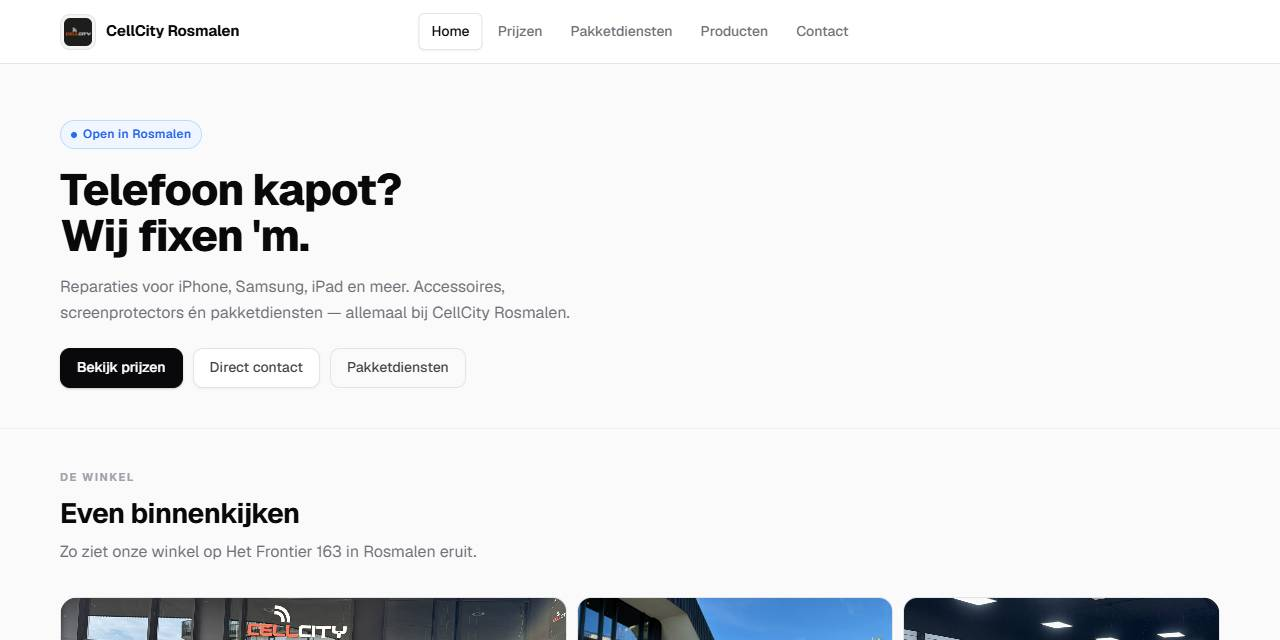
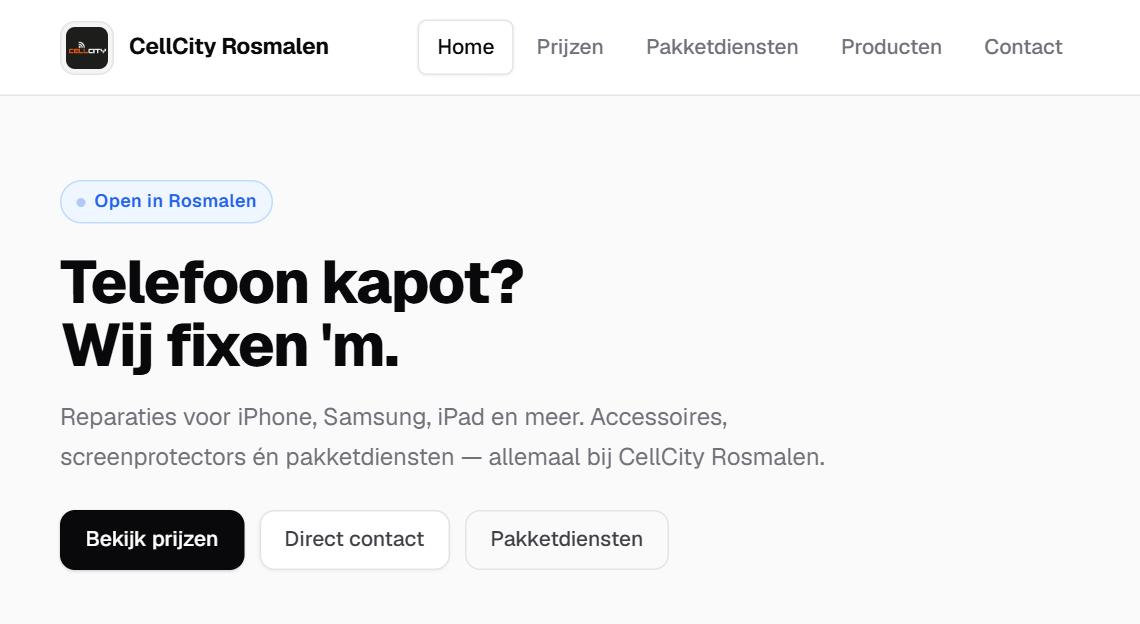
Romulus Shop en Lookxsmaxen App verwijderd
- GymApp: label "Eigen project" (zelf gebouwd), geen samenwerking meer
- WorldSeeker als kaart; Pong, Shooter, Burnout Prefire App en Sudoku App
  in een compacte lijst "Overige schoolprojecten" zonder lege beeldvakken
- Nieuwe CellCity-screenshot: alleen navigatie en hero
- .claude/ en .idea/ in .gitignore en uit de repo gehaald

diff --git a/projects.html b/projects.html
@@ -5,7 +5,7 @@
 <meta name="viewport" content="width=device-width, initial-scale=1">
 <title>Projecten | Benjamin van Hemert</title>
 <link rel="icon" href="data:,">
-<meta name="description" content="Projecten van Benjamin van Hemert uit Rosmalen: een klantwebsite voor CellCity Rosmalen, conceptwebsites, schoolprojecten en een samenwerking. Bij elk project staat wat het is.">
+<meta name="description" content="Projecten van Benjamin van Hemert uit Rosmalen: een klantwebsite voor CellCity Rosmalen, conceptwebsites, een eigen app en schoolprojecten. Bij elk project staat wat het is.">
 <link rel="alternate" hreflang="nl" href="https://benjamin2eaccount.github.io/Portfolio-123.bvh/projects.html">
 <link rel="alternate" hreflang="en" href="https://benjamin2eaccount.github.io/Portfolio-123.bvh/en/projects.html">
 <link rel="preconnect" href="https://fonts.googleapis.com">
@@ -32,7 +32,7 @@
 
 <div class="container page-head">
   <h1>Projecten</h1>
-  <p>Alles wat ik heb gemaakt. Bij elk project staat wat het is: een klantproject, een concept dat ik zelf heb gemaakt, een schoolproject of een samenwerking.</p>
+  <p>Alles wat ik heb gemaakt. Bij elk project staat wat het is: een klantproject, een concept, een eigen project of een schoolproject.</p>
 </div>
 
 <section class="section">
@@ -41,7 +41,7 @@
     <div class="group">
       <h2>Klantproject</h2>
       <div class="featured">
-        <img src="Photos/cellcity.jpg" alt="Screenshot van de homepage van CellCity Rosmalen" width="1280" height="640" loading="lazy">
+        <img src="Photos/cellcity.jpg" alt="Screenshot van de homepage van CellCity Rosmalen" width="1140" height="624" loading="lazy">
         <div>
           <span class="label label-client">Klantproject</span>
           <h3>CellCity Rosmalen</h3>
@@ -72,7 +72,7 @@
         </article>
 
         <article class="card">
-          <img src="Photos/pimtoys.jpg" alt="Screenshot van de conceptwebsite voor Pim Toys Rosmalen" width="1280" height="640" loading="lazy">
+          <img src="Photos/pimtoys.jpg" alt="Screenshot van de conceptwebsite voor Pim Toys Rosmalen" width="1140" height="624" loading="lazy">
           <div class="card-body">
             <span class="label">Concept / oefenproject</span>
             <h3>Pim Toys Rosmalen</h3>
@@ -98,17 +98,16 @@
     </div>
 
     <div class="group">
-      <h2>Samenwerking</h2>
+      <h2>Eigen project</h2>
       <div class="cards">
 
         <article class="card">
           <div class="shot-placeholder">GymApp</div>
           <div class="card-body">
-            <span class="label">Samenwerking</span>
+            <span class="label">Eigen project</span>
             <h3>GymApp</h3>
             <p>App voor krachttraining en voeding, voor iOS en web. Met trainingen, voeding bijhouden met een barcode-scan en statistieken.</p>
-            <p class="note-line">Samen gebouwd met [naam].</p>
-            <p class="tech">TypeScript, Expo, Supabase</p>
+              <p class="tech">TypeScript, Expo, Supabase</p>
             <div class="links"><a href="https://github.com/altijdbezig/gymapp" target="_blank" rel="noopener">Bekijk de code</a></div>
           </div>
         </article>
@@ -118,7 +117,7 @@
 
     <div class="group">
       <h2>Schoolprojecten</h2>
-      <div class="cards">
+      <div class="school-grid">
 
         <article class="card">
           <img src="Photos/worldseeker.jpg" alt="Screenshot van het startscherm van WorldSeeker" width="1280" height="640" loading="lazy">
@@ -131,66 +130,16 @@
           </div>
         </article>
 
-        <article class="card">
-          <div class="shot-placeholder">Romulus Shop</div>
-          <div class="card-body">
-            <span class="label">Schoolproject</span>
-            <h3>Romulus Shop</h3>
-            <p>Een webshop, gemaakt als schoolopdracht.</p>
-            <div class="links"><span class="off">Schoolproject, code niet openbaar</span></div>
-          </div>
-        </article>
-
-        <article class="card">
-          <div class="shot-placeholder">Pong</div>
-          <div class="card-body">
-            <span class="label">Schoolproject</span>
-            <h3>Pong</h3>
-            <p>Een eigen versie van het klassieke spel Pong.</p>
-            <div class="links"><span class="off">Schoolproject, code niet openbaar</span></div>
-          </div>
-        </article>
-
-        <article class="card">
-          <div class="shot-placeholder">Shooter</div>
-          <div class="card-body">
-            <span class="label">Schoolproject</span>
-            <h3>Shooter</h3>
-            <p>Een shooter-game.</p>
-            <div class="links"><span class="off">Schoolproject, code niet openbaar</span></div>
-          </div>
-        </article>
-
-        <article class="card">
-          <div class="shot-placeholder">Burnout Prefire App</div>
-          <div class="card-body">
-            <span class="label">Schoolproject</span>
-            <h3>Burnout Prefire App</h3>
-            <p>Een app om prefire-hoeken op de map Burnout te oefenen.</p>
-            <div class="links"><span class="off">Schoolproject, code niet openbaar</span></div>
-          </div>
-        </article>
-
-        <article class="card">
-          <div class="shot-placeholder">Sudoku App</div>
-          <div class="card-body">
-            <span class="label">Schoolproject</span>
-            <h3>Sudoku App</h3>
-            <p>Een Sudoku-app voor mobiel.</p>
-            <div class="links"><span class="off">Schoolproject, code niet openbaar</span></div>
-          </div>
-        </article>
-
-        <article class="card">
-          <div class="shot-placeholder">Lookxsmaxen App</div>
-          <div class="card-body">
-            <span class="label">Schoolproject</span>
-            <h3>Lookxsmaxen App</h3>
-            <p>Mobiele app met een onboarding, een dagplan en een voortgangsscherm.</p>
-            <p class="tech">TypeScript, Expo</p>
-            <div class="links"><span class="off">Schoolproject, code niet openbaar</span></div>
-          </div>
-        </article>
+        <div class="other-list">
+          <h3>Overige schoolprojecten</h3>
+          <p class="other-note">Schoolprojecten, code niet openbaar.</p>
+          <ul>
+            <li><strong>Pong</strong>Een eigen versie van het klassieke spel Pong.</li>
+            <li><strong>Shooter</strong>Een shooter-game.</li>
+            <li><strong>Burnout Prefire App</strong>Een app om prefire-hoeken op de map Burnout te oefenen.</li>
+            <li><strong>Sudoku App</strong>Een Sudoku-app voor mobiel.</li>
+          </ul>
+        </div>
 
       </div>
     </div>

diff --git a/en/projects.html b/en/projects.html
@@ -5,7 +5,7 @@
 <meta name="viewport" content="width=device-width, initial-scale=1">
 <title>Projects | Benjamin van Hemert</title>
 <link rel="icon" href="data:,">
-<meta name="description" content="Projects by Benjamin van Hemert from Rosmalen: a client website for CellCity Rosmalen, concept websites, school projects and a collaboration. Each project says what it is.">
+<meta name="description" content="Projects by Benjamin van Hemert from Rosmalen: a client website for CellCity Rosmalen, concept websites, a personal app and school projects. Each project says what it is.">
 <link rel="alternate" hreflang="nl" href="https://benjamin2eaccount.github.io/Portfolio-123.bvh/projects.html">
 <link rel="alternate" hreflang="en" href="https://benjamin2eaccount.github.io/Portfolio-123.bvh/en/projects.html">
 <link rel="preconnect" href="https://fonts.googleapis.com">
@@ -32,7 +32,7 @@
 
 <div class="container page-head">
   <h1>Projects</h1>
-  <p>Everything I've made. Each project says what it is: a client project, a concept I made myself, a school project or a collaboration.</p>
+  <p>Everything I've made. Each project says what it is: a client project, a concept, a personal project or a school project.</p>
 </div>
 
 <section class="section">
@@ -41,7 +41,7 @@
     <div class="group">
       <h2>Client project</h2>
       <div class="featured">
-        <img src="../Photos/cellcity.jpg" alt="Screenshot of the CellCity Rosmalen homepage" width="1280" height="640" loading="lazy">
+        <img src="../Photos/cellcity.jpg" alt="Screenshot of the CellCity Rosmalen homepage" width="1140" height="624" loading="lazy">
         <div>
           <span class="label label-client">Client project</span>
           <h3>CellCity Rosmalen</h3>
@@ -72,7 +72,7 @@
         </article>
 
         <article class="card">
-          <img src="../Photos/pimtoys.jpg" alt="Screenshot of the concept website for Pim Toys Rosmalen" width="1280" height="640" loading="lazy">
+          <img src="../Photos/pimtoys.jpg" alt="Screenshot of the concept website for Pim Toys Rosmalen" width="1140" height="624" loading="lazy">
           <div class="card-body">
             <span class="label">Concept / practice project</span>
             <h3>Pim Toys Rosmalen</h3>
@@ -98,17 +98,16 @@
     </div>
 
     <div class="group">
-      <h2>Collaboration</h2>
+      <h2>Personal project</h2>
       <div class="cards">
 
         <article class="card">
           <div class="shot-placeholder">GymApp</div>
           <div class="card-body">
-            <span class="label">Collaboration</span>
+            <span class="label">Personal project</span>
             <h3>GymApp</h3>
             <p>App for strength training and nutrition, for iOS and web. With workouts, food logging with a barcode scanner and statistics.</p>
-            <p class="note-line">Built together with [naam].</p>
-            <p class="tech">TypeScript, Expo, Supabase</p>
+              <p class="tech">TypeScript, Expo, Supabase</p>
             <div class="links"><a href="https://github.com/altijdbezig/gymapp" target="_blank" rel="noopener">View the code</a></div>
           </div>
         </article>
@@ -118,7 +117,7 @@
 
     <div class="group">
       <h2>School projects</h2>
-      <div class="cards">
+      <div class="school-grid">
 
         <article class="card">
           <img src="../Photos/worldseeker.jpg" alt="Screenshot of the WorldSeeker start screen" width="1280" height="640" loading="lazy">
@@ -131,66 +130,16 @@
           </div>
         </article>
 
-        <article class="card">
-          <div class="shot-placeholder">Romulus Shop</div>
-          <div class="card-body">
-            <span class="label">School project</span>
-            <h3>Romulus Shop</h3>
-            <p>A web shop, made as a school assignment.</p>
-            <div class="links"><span class="off">School project, code not public</span></div>
-          </div>
-        </article>
-
-        <article class="card">
-          <div class="shot-placeholder">Pong</div>
-          <div class="card-body">
-            <span class="label">School project</span>
-            <h3>Pong</h3>
-            <p>My own version of the classic game Pong.</p>
-            <div class="links"><span class="off">School project, code not public</span></div>
-          </div>
-        </article>
-
-        <article class="card">
-          <div class="shot-placeholder">Shooter</div>
-          <div class="card-body">
-            <span class="label">School project</span>
-            <h3>Shooter</h3>
-            <p>A shooter game.</p>
-            <div class="links"><span class="off">School project, code not public</span></div>
-          </div>
-        </article>
-
-        <article class="card">
-          <div class="shot-placeholder">Burnout Prefire App</div>
-          <div class="card-body">
-            <span class="label">School project</span>
-            <h3>Burnout Prefire App</h3>
-            <p>An app for practising prefire angles on the map Burnout.</p>
-            <div class="links"><span class="off">School project, code not public</span></div>
-          </div>
-        </article>
-
-        <article class="card">
-          <div class="shot-placeholder">Sudoku App</div>
-          <div class="card-body">
-            <span class="label">School project</span>
-            <h3>Sudoku App</h3>
-            <p>A Sudoku app for mobile.</p>
-            <div class="links"><span class="off">School project, code not public</span></div>
-          </div>
-        </article>
-
-        <article class="card">
-          <div class="shot-placeholder">Lookxsmaxen App</div>
-          <div class="card-body">
-            <span class="label">School project</span>
-            <h3>Lookxsmaxen App</h3>
-            <p>Mobile app with onboarding, a daily plan and a progress screen.</p>
-            <p class="tech">TypeScript, Expo</p>
-            <div class="links"><span class="off">School project, code not public</span></div>
-          </div>
-        </article>
+        <div class="other-list">
+          <h3>Other school projects</h3>
+          <p class="other-note">School projects, code not public.</p>
+          <ul>
+            <li><strong>Pong</strong>My own version of the classic game Pong.</li>
+            <li><strong>Shooter</strong>A shooter game.</li>
+            <li><strong>Burnout Prefire App</strong>An app for practising prefire angles on the map Burnout.</li>
+            <li><strong>Sudoku App</strong>A Sudoku app for mobile.</li>
+          </ul>
+        </div>
 
       </div>
     </div>

diff --git a/index.html b/index.html
@@ -75,7 +75,7 @@
     <span class="eyebrow">Uitgelicht</span>
     <h2>Klantproject: CellCity Rosmalen</h2>
     <div class="featured">
-      <img src="Photos/cellcity.jpg" alt="Screenshot van de homepage van CellCity Rosmalen" width="1280" height="640" loading="lazy">
+      <img src="Photos/cellcity.jpg" alt="Screenshot van de homepage van CellCity Rosmalen" width="1140" height="624" loading="lazy">
       <div>
         <span class="label label-client">Klantproject</span>
         <h3>CellCity Rosmalen</h3>
@@ -94,7 +94,7 @@
   <div class="container">
     <span class="eyebrow">Ander werk</span>
     <h2>Andere projecten</h2>
-    <p class="section-intro">Bij elk project staat wat het is: een concept dat ik zelf heb gemaakt, een schoolproject of een samenwerking.</p>
+    <p class="section-intro">Bij elk project staat wat het is: een concept, een eigen project of een schoolproject.</p>
     <div class="cards">
 
       <article class="card">
@@ -110,7 +110,7 @@
       </article>
 
       <article class="card">
-        <img src="Photos/pimtoys.jpg" alt="Screenshot van de conceptwebsite voor Pim Toys Rosmalen" width="1280" height="640" loading="lazy">
+        <img src="Photos/pimtoys.jpg" alt="Screenshot van de conceptwebsite voor Pim Toys Rosmalen" width="1140" height="624" loading="lazy">
         <div class="card-body">
           <span class="label">Concept / oefenproject</span>
           <h3>Pim Toys Rosmalen</h3>
@@ -124,10 +124,9 @@
       <article class="card">
         <div class="shot-placeholder">GymApp</div>
         <div class="card-body">
-          <span class="label">Samenwerking</span>
+          <span class="label">Eigen project</span>
           <h3>GymApp</h3>
           <p>App voor krachttraining en voeding, voor iOS en web. Met trainingen, voeding bijhouden met een barcode-scan en statistieken.</p>
-          <p class="note-line">Samen gebouwd met [naam].</p>
           <p class="tech">TypeScript, Expo, Supabase</p>
           <div class="links"><a href="https://github.com/altijdbezig/gymapp" target="_blank" rel="noopener">Bekijk de code</a></div>
         </div>

diff --git a/en/index.html b/en/index.html
@@ -75,7 +75,7 @@
     <span class="eyebrow">Featured</span>
     <h2>Client project: CellCity Rosmalen</h2>
     <div class="featured">
-      <img src="../Photos/cellcity.jpg" alt="Screenshot of the CellCity Rosmalen homepage" width="1280" height="640" loading="lazy">
+      <img src="../Photos/cellcity.jpg" alt="Screenshot of the CellCity Rosmalen homepage" width="1140" height="624" loading="lazy">
       <div>
         <span class="label label-client">Client project</span>
         <h3>CellCity Rosmalen</h3>
@@ -94,7 +94,7 @@
   <div class="container">
     <span class="eyebrow">Other work</span>
     <h2>Other projects</h2>
-    <p class="section-intro">Each project says what it is: a concept I made myself, a school project or a collaboration.</p>
+    <p class="section-intro">Each project says what it is: a concept, a personal project or a school project.</p>
     <div class="cards">
 
       <article class="card">
@@ -110,7 +110,7 @@
       </article>
 
       <article class="card">
-        <img src="../Photos/pimtoys.jpg" alt="Screenshot of the concept website for Pim Toys Rosmalen" width="1280" height="640" loading="lazy">
+        <img src="../Photos/pimtoys.jpg" alt="Screenshot of the concept website for Pim Toys Rosmalen" width="1140" height="624" loading="lazy">
         <div class="card-body">
           <span class="label">Concept / practice project</span>
           <h3>Pim Toys Rosmalen</h3>
@@ -124,10 +124,9 @@
       <article class="card">
         <div class="shot-placeholder">GymApp</div>
         <div class="card-body">
-          <span class="label">Collaboration</span>
+          <span class="label">Personal project</span>
           <h3>GymApp</h3>
           <p>App for strength training and nutrition, for iOS and web. With workouts, food logging with a barcode scanner and statistics.</p>
-          <p class="note-line">Built together with [naam].</p>
           <p class="tech">TypeScript, Expo, Supabase</p>
           <div class="links"><a href="https://github.com/altijdbezig/gymapp" target="_blank" rel="noopener">View the code</a></div>
         </div>

diff --git a/style.css b/style.css
@@ -152,6 +152,16 @@ h1, h2, h3 { line-height: 1.2; font-weight: 700; letter-spacing: -.01em; }
 .group h2 { font-size: 1.25rem; padding-bottom: .6rem; margin-bottom: 1.25rem; border-bottom: 1px solid var(--border); }
 .more { margin-top: 1.75rem; }
 
+/* SCHOOLPROJECTEN: één kaart plus een compacte lijst */
+.school-grid { display: grid; grid-template-columns: minmax(0, 1fr) minmax(0, 2fr); gap: 1.25rem; align-items: start; }
+@media (max-width: 800px) { .school-grid { grid-template-columns: 1fr; } }
+.other-list { border: 1px solid var(--border); border-radius: var(--radius); background: #fff; padding: 1.1rem 1.2rem .4rem; }
+.other-list h3 { font-size: 1.1rem; }
+.other-note { color: var(--muted); font-size: .9rem; margin: .2rem 0 .6rem; }
+.other-list ul { list-style: none; }
+.other-list li { padding: .75rem 0; border-top: 1px solid var(--border); color: var(--muted); font-size: .95rem; }
+.other-list li strong { display: block; color: var(--text); font-weight: 600; }
+
 /* ABOUT */
 .about { display: grid; grid-template-columns: 1fr; gap: 1rem; max-width: 720px; }
 .about p { color: var(--muted); }
